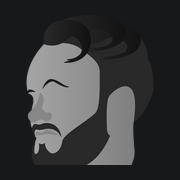
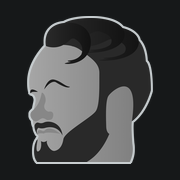
Fix menu

diff --git a/public/css/custom.css b/public/css/custom.css
@@ -9,6 +9,9 @@
   --black: #000000;
   --body-font: 'Georgia';
   --heading-font: 'Merriweather';
+  --muted-font-color: #9fb0ba;
+  --line-color: rgba(255,255,255,0.14);
+  --accent: #6cc0aa;
 }
 
 html {
@@ -695,70 +698,140 @@ mjx-container[display="true"] {
 
 /* Site header with the main menu */
 .site-header {
-  position: relative;
-  z-index: 5;
+  position: sticky;
+  top: 0;
+  z-index: 20;
   display: flex;
   flex-wrap: wrap;
   align-items: center;
   justify-content: space-between;
-  gap: 0.5rem 1.5rem;
-  padding: 1rem 2rem;
+  gap: 0.5rem 2rem;
+  padding: 0.6rem 2rem;
   margin-bottom: 3rem;
-  border-bottom: 2px solid #cccccc;
+  background-color: rgba(21, 33, 40, 0.94);
+  -webkit-backdrop-filter: blur(6px);
+  backdrop-filter: blur(6px);
+  border-bottom: 1px solid var(--line-color);
+  box-shadow: 0 4px 14px rgba(0,0,0,0.45);
+  text-shadow: none;
 }
-.site-title {
-  font-family: var(--heading-font), serif;
-  font-size: 1.6rem;
-  font-weight: bold;
+
+.site-brand {
+  display: flex;
+  align-items: center;
+  gap: 0.75rem;
   color: var(--white);
-  text-shadow: 4px 4px 1px rgba(0,0,0,0.9);
 }
-.site-title:hover,
-.site-title:focus {
+.site-brand:hover,
+.site-brand:focus {
   color: var(--white);
   text-decoration: none;
 }
-.site-title small {
-  font-size: 62%;
-  font-weight: normal;
-  color: #c0c0c0;
+.site-avatar {
+  width: 40px;
+  height: 40px;
+  margin: 0;
+  padding: 2px;
+  border-radius: 50%;
+  background-color: #2b3d47;
+  border: 1px solid var(--line-color);
+  transition: border-color .2s ease;
 }
+.site-brand:hover .site-avatar {
+  border-color: var(--accent);
+}
+.site-name {
+  font-family: var(--heading-font), serif;
+  font-size: 1.25rem;
+  font-weight: bold;
+  letter-spacing: 0.01em;
+}
+.site-tagline {
+  padding-left: 0.75rem;
+  border-left: 1px solid var(--line-color);
+  font-size: 0.85rem;
+  color: var(--muted-font-color);
+}
+
 .site-nav {
   display: flex;
   flex-wrap: wrap;
   gap: 0.25rem;
 }
 .site-nav a {
-  font-family: var(--heading-font), serif;
-  color: var(--main-font-color);
-  padding: 0.3rem 0.7rem;
-  border-radius: 4px;
-  border-bottom: 2px solid transparent;
+  position: relative;
+  padding: 0.45rem 0.8rem;
+  font-size: 0.8rem;
+  font-weight: bold;
+  letter-spacing: 0.12em;
+  text-transform: uppercase;
+  color: var(--muted-font-color);
+  transition: color .2s ease;
+}
+/* Accent bar under each link: grows in on hover, stays full on the current page */
+.site-nav a::after {
+  content: "";
+  position: absolute;
+  left: 0.8rem;
+  right: 0.8rem;
+  bottom: 0.15rem;
+  height: 2px;
+  border-radius: 1px;
+  background-color: var(--accent);
+  transform: scaleX(0);
+  transition: transform .2s ease;
 }
 .site-nav a:hover,
-.site-nav a:focus {
-  color: var(--white);
-  background-color: rgba(255,255,255,0.08);
-  text-decoration: none;
-}
+.site-nav a:focus-visible,
 .site-nav a.active {
   color: var(--white);
-  border-bottom-color: var(--white);
+  text-decoration: none;
 }
-@media (max-width: 700px) {
-  .site-header {
-    flex-direction: column;
-    padding: 0.75rem 1rem;
-    margin-bottom: 2rem;
-  }
-  .site-title small {
+.site-nav a:hover::after,
+.site-nav a:focus-visible::after,
+.site-nav a.active::after {
+  transform: scaleX(1);
+}
+
+@media (max-width: 1360px) {
+  .site-tagline {
     display: none;
+  }
+}
+@media (max-width: 1000px) {
+  .site-header {
+    padding: 0.6rem 1.25rem;
+    gap: 0.5rem 1rem;
+  }
+  .site-nav a {
+    padding: 0.45rem 0.6rem;
+    letter-spacing: 0.08em;
+  }
+  .site-nav a::after {
+    left: 0.6rem;
+    right: 0.6rem;
+  }
+}
+@media (max-width: 820px) {
+  .site-header {
+    position: relative;
+    flex-direction: column;
+    gap: 0.4rem;
+    padding: 0.75rem 0.5rem 0.4rem;
+    margin-bottom: 2rem;
   }
   .site-nav {
     justify-content: center;
+    gap: 0;
   }
   .site-nav a {
-    padding: 0.3rem 0.5rem;
+    padding: 0.45rem 0.55rem;
+    font-size: 0.72rem;
+    letter-spacing: 0.08em;
+  }
+  .site-nav a::after {
+    left: 0.55rem;
+    right: 0.55rem;
   }
 }
 
@@ -775,10 +848,42 @@ mjx-container[display="true"] {
 .site-footer .social-icon {
   color: var(--main-font-color);
 }
+.site-footer .social-icon {
+  transition: color .2s ease;
+}
 .site-footer .social-icon:hover,
-.site-footer .social-icon:focus {
-  color: var(--white);
+.site-footer .social-icon:focus-visible {
+  color: var(--accent);
 }
 .site-footer p {
   margin-bottom: 0;
+}
+
+/* Keyboard focus ring in the theme accent instead of the browser's default blue */
+a:focus {
+  outline: none;
+}
+a:focus-visible,
+button:focus-visible,
+input:focus-visible {
+  outline: 2px solid var(--accent);
+  outline-offset: 3px;
+  border-radius: 3px;
+}
+
+/* Replace the theme's leftover blue link colours */
+a {
+  color: var(--white);
+}
+.related-posts li a:hover {
+  color: var(--accent);
+}
+.pagination-item {
+  color: var(--main-font-color);
+  border-color: var(--line-color);
+}
+a.pagination-item:hover {
+  color: var(--white);
+  background-color: rgba(255,255,255,0.08);
+  text-decoration: none;
 }

diff --git a/_includes/header.html b/_includes/header.html
@@ -13,7 +13,11 @@
   {% assign current = "" %}
 {% endif %}
 <header class="site-header">
-  <a class="site-title" href="{{ site.baseurl }}/">{{ site.title }} <small>{{ site.tagline }}</small></a>
+  <a class="site-brand" href="{{ site.baseurl }}/">
+    <img class="site-avatar" src="{{ site.baseurl }}/icons/my_face/avatar.webp" width="40" height="40" alt="">
+    <span class="site-name">{{ site.title }}</span>
+    <span class="site-tagline">{{ site.tagline }}</span>
+  </a>
   <nav class="site-nav" aria-label="Main menu">
     <a href="{{ site.baseurl }}/"{% if current == "home" %} class="active" aria-current="page"{% endif %}>Home</a>
     <a href="{{ site.baseurl }}/cv/"{% if current == "cv" %} class="active" aria-current="page"{% endif %}>CV</a>
